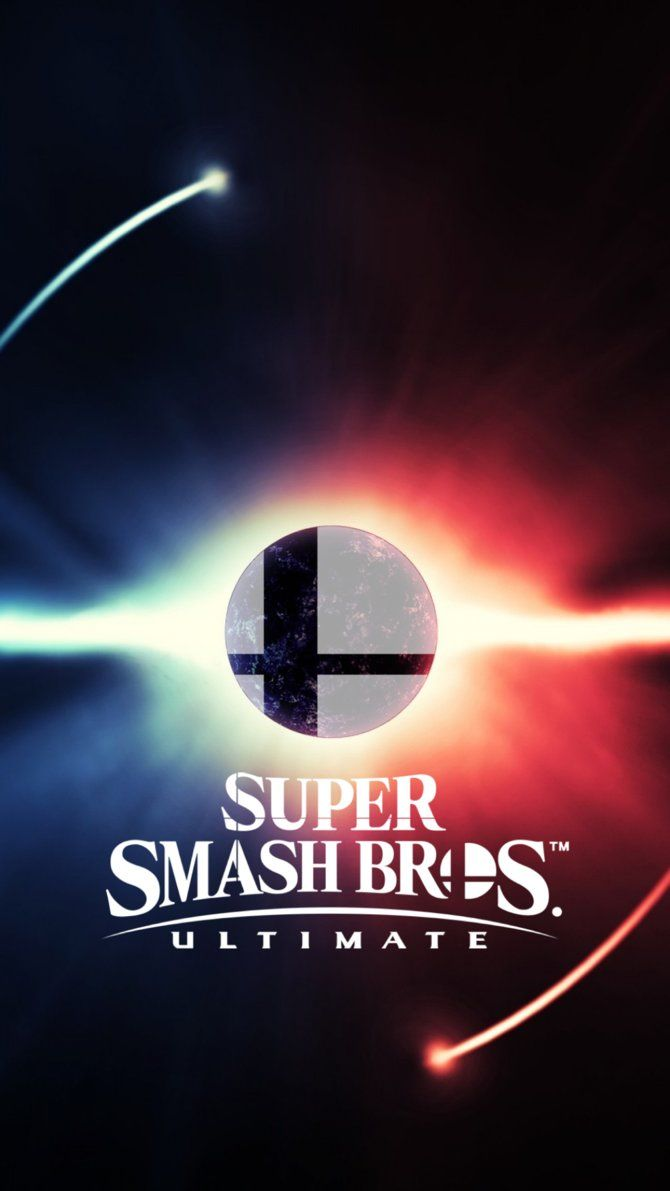
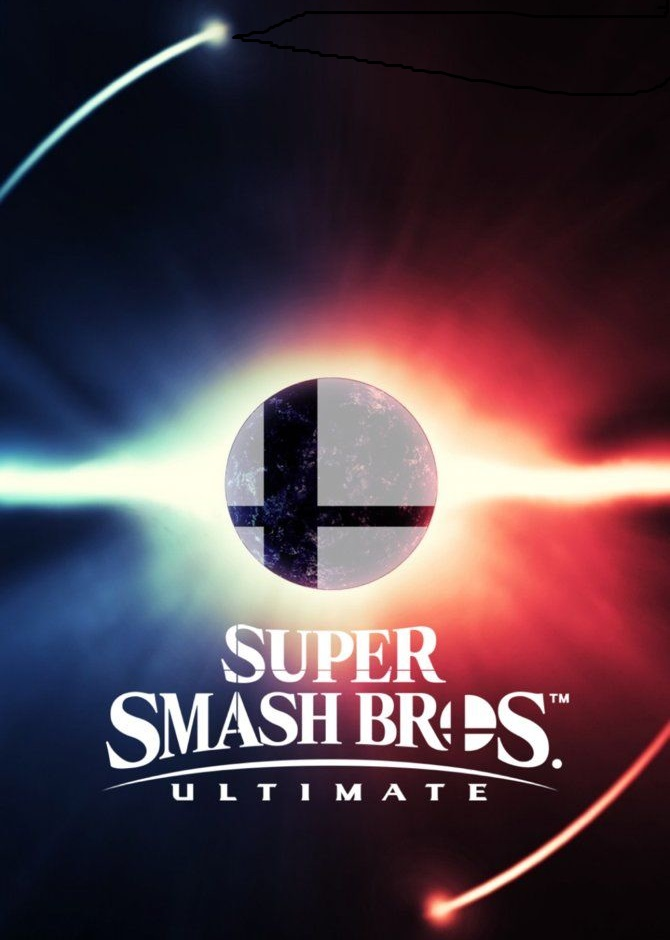
Changed Default Image; Removed unneeded imgs

diff --git a/client/src/components/layout/ProfileSidebar.js b/client/src/components/layout/ProfileSidebar.js
@@ -10,7 +10,7 @@ import NewTournament from '../tournaments/New';
 import PropTypes from 'prop-types';
 import { connect } from 'react-redux';
 import SidebarImage from './SidebarImage';
-import smashultimate3 from '../../img/smashultimate3.jpg';
+import smashDefaultImage from '../../img/smashultimate1.jpg';
 import RuleSets from './RuleSets';
 import UpdateDetailsModal from '../auth/UpdateDetailsModal';
 
@@ -45,7 +45,7 @@ class ProfileSidebar extends Component {
 					{
 						isAuthenticated && user.main ?
 						<SidebarImage main={ user.main } /> :
-						<img width="100%" src={ smashultimate3 } alt="default" />
+						<img width="100%" src={ smashDefaultImage } alt="default" />
 					}
 
 					<CardBody>
